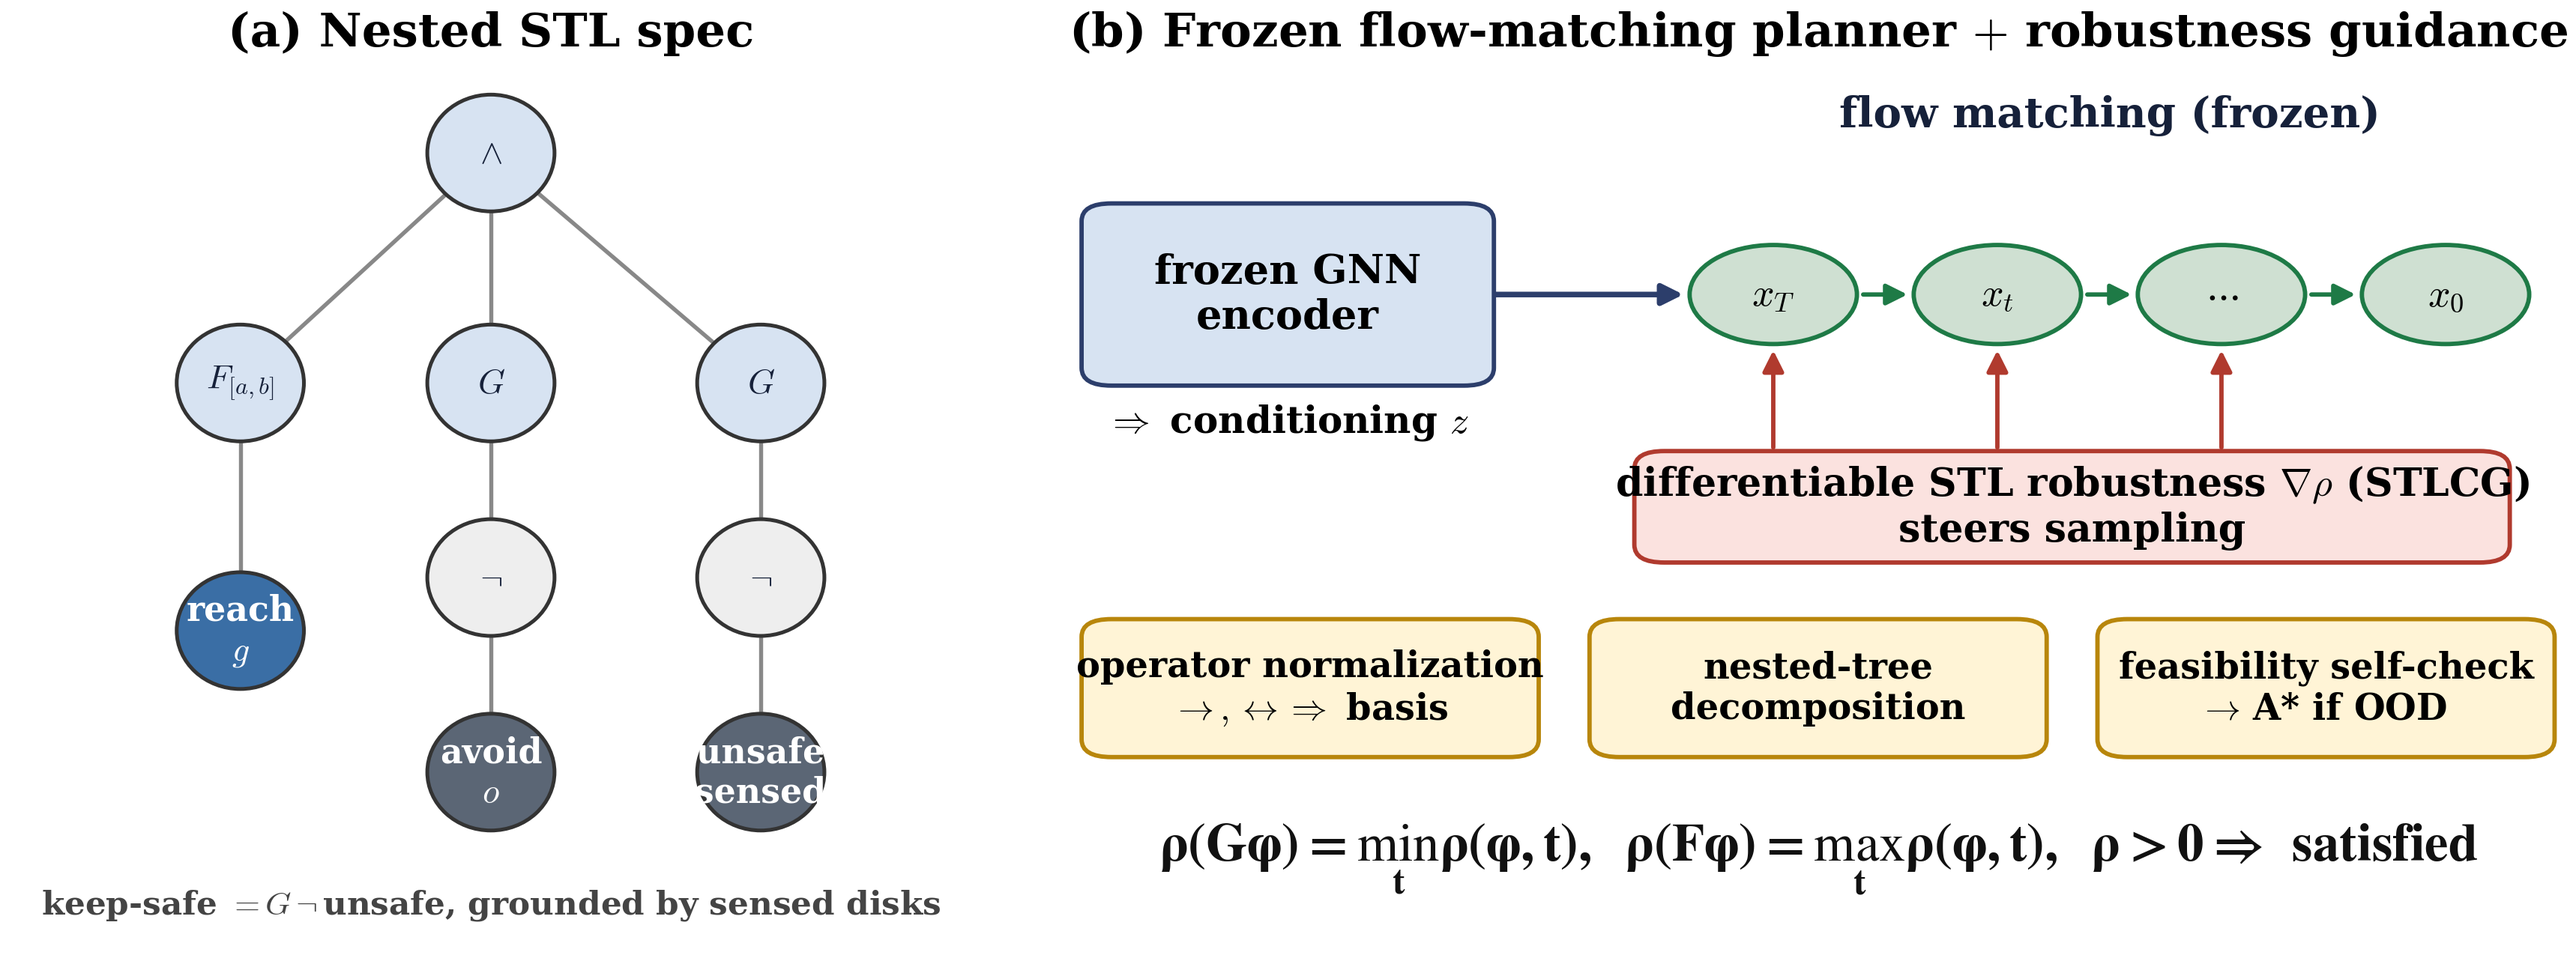
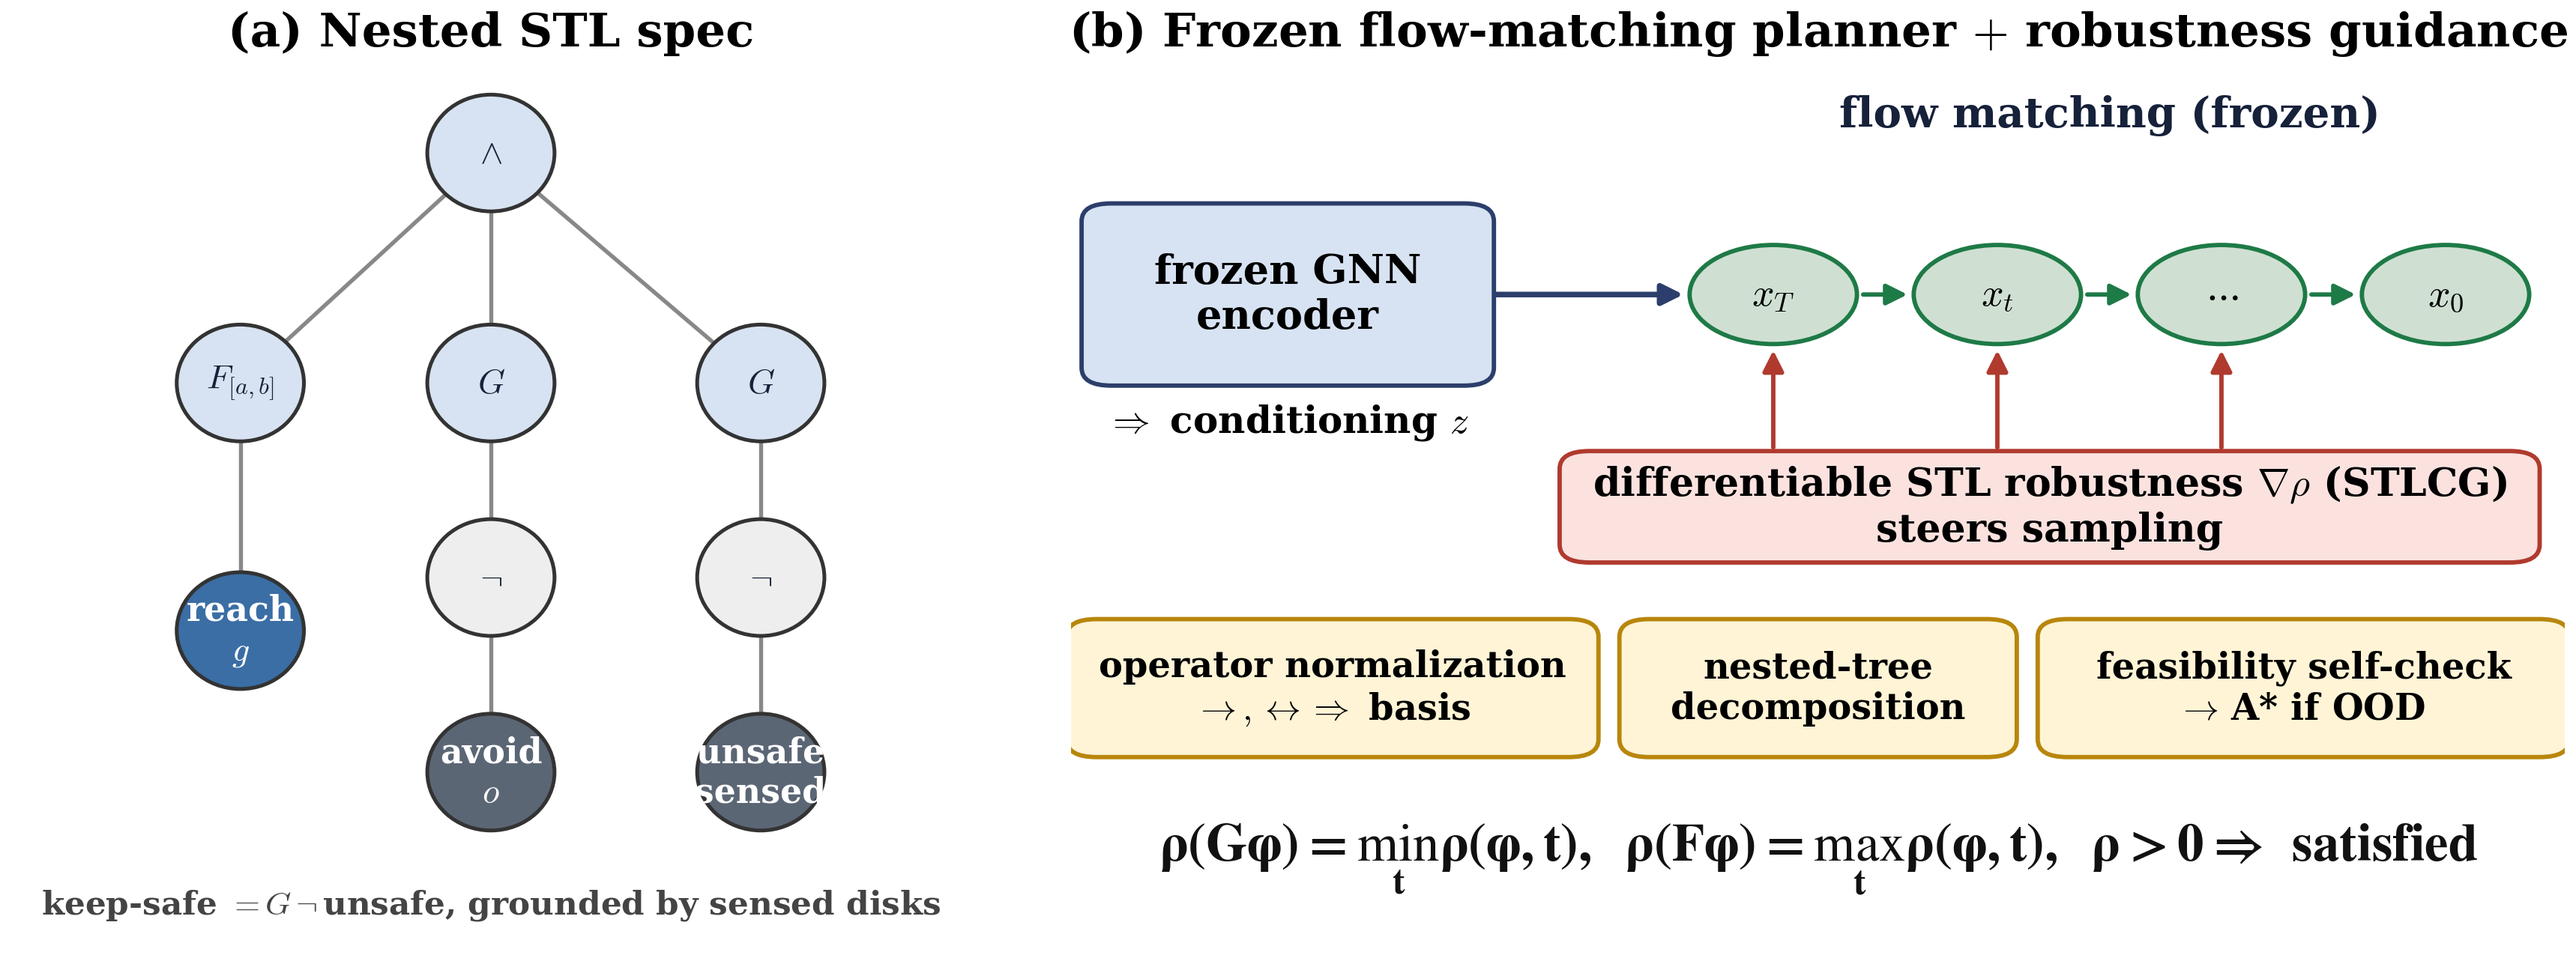
Figure 3(b): widen the robustness box + the long mechanism tags so text clears the border
The red "differentiable STL robustness" box and the first/third yellow tags had
text touching the rounded border. Widen the red box (58->65) and give the long-
text tags ("operator normalization", "feasibility self-check") more width with
small even gaps, so the text has padding. Layout still within ylim 0-100.

Changed region(s): [[0.5915, 0.4574, 0.9962, 0.6099], [0.4047, 0.6403, 0.6538, 0.7928], [0.7783, 0.6403, 0.9962, 0.7928]]

diff --git a/outputs/paper/figure_planner.py b/outputs/paper/figure_planner.py
@@ -129,17 +129,18 @@ def main():
         if i < len(xs)-1:
             arr(xx+5.6, yr, xs[i+1]-5.6, yr, ec=GATE_E, lw=1.4)
     # robustness-gradient guidance: box below, arrows up into the row
-    box(38, 44, 58, 12, r"differentiable STL robustness $\nabla\rho$ (STLCG)"
+    box(33, 44, 65, 12, r"differentiable STL robustness $\nabla\rho$ (STLCG)"
         "\nsteers sampling", "#fbe2df", "#b03a2e", fs=12.5, bold=True)
     for xx in xs[:-1]:
         arr(xx, 56, xx, yr-5.6, ec="#b03a2e", lw=1.4, style="-|>")
-    # three mechanism tags, evenly spaced, NO overlap (gaps of 3 units)
+    # three mechanism tags; the long-text boxes (1 and 3) get extra width so the
+    # text does not touch the rounded border, with small even gaps.
     tags = ["operator normalization\n$\\rightarrow,\\leftrightarrow\\Rightarrow$ basis",
             "nested-tree\ndecomposition",
             "feasibility self-check\n$\\to$ A* if OOD"]
-    txs = [1, 35, 69]                       # 1-31, 35-65, 69-99  (gap 3)
-    for x, t in zip(txs, tags):
-        box(x, 22, 30, 15, t, MECH, MECH_E, fs=11.5, bold=True)
+    tag_xw = [(0, 35), (37, 26), (65, 35)]   # (x, width): 0-35, 37-63, 65-100
+    for (x, w), t in zip(tag_xw, tags):
+        box(x, 22, w, 15, t, MECH, MECH_E, fs=11.5, bold=True)
     # render this formula with the STIX math fontset, whose \mathbf DOES bold
     # Greek (cm's does not) -- per-text, so the rest of the figure stays cm.
     ax.text(50, 10, r"$\mathbf{\rho(G\varphi)=\min_t\rho(\varphi,t),\;\;"
